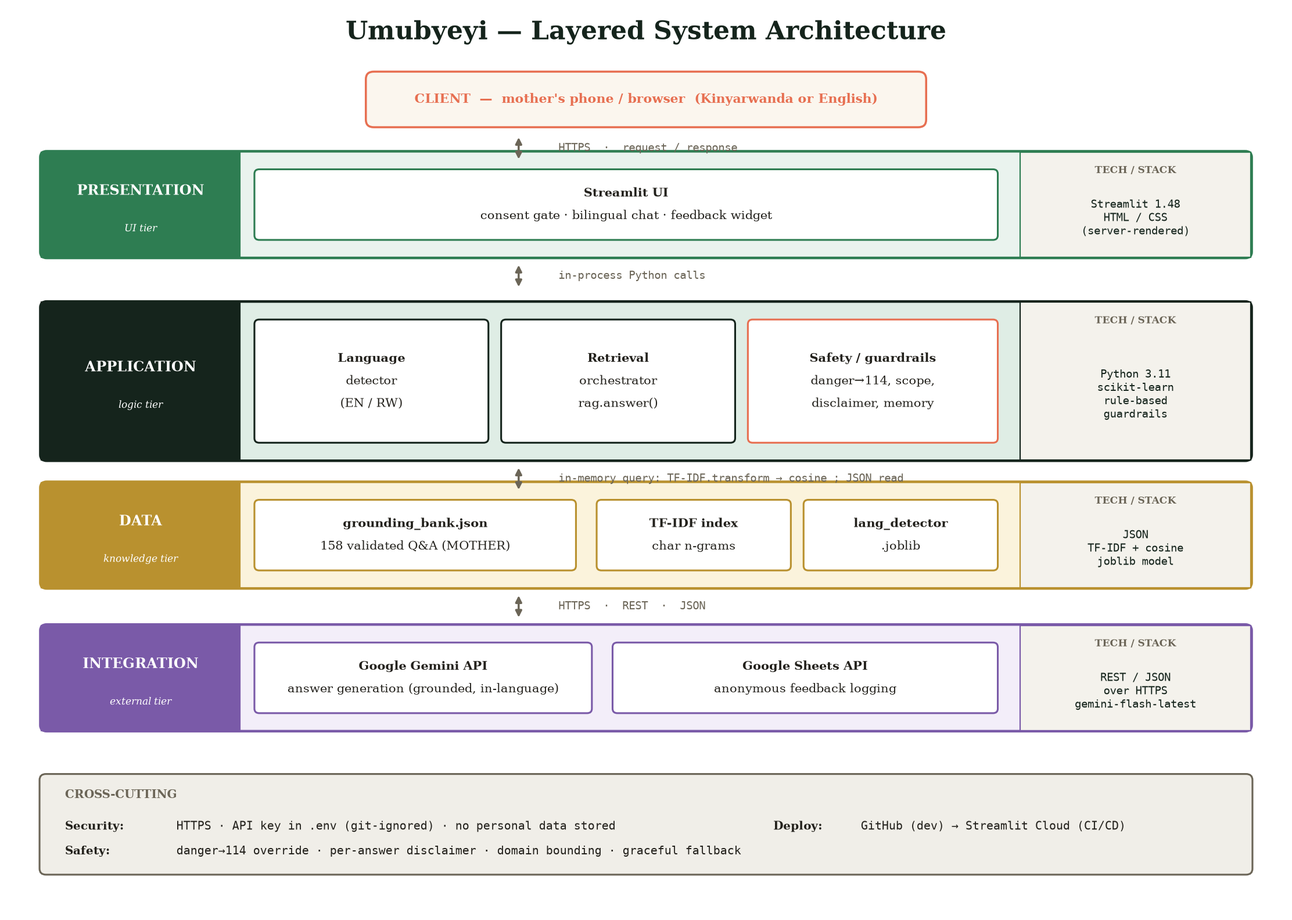
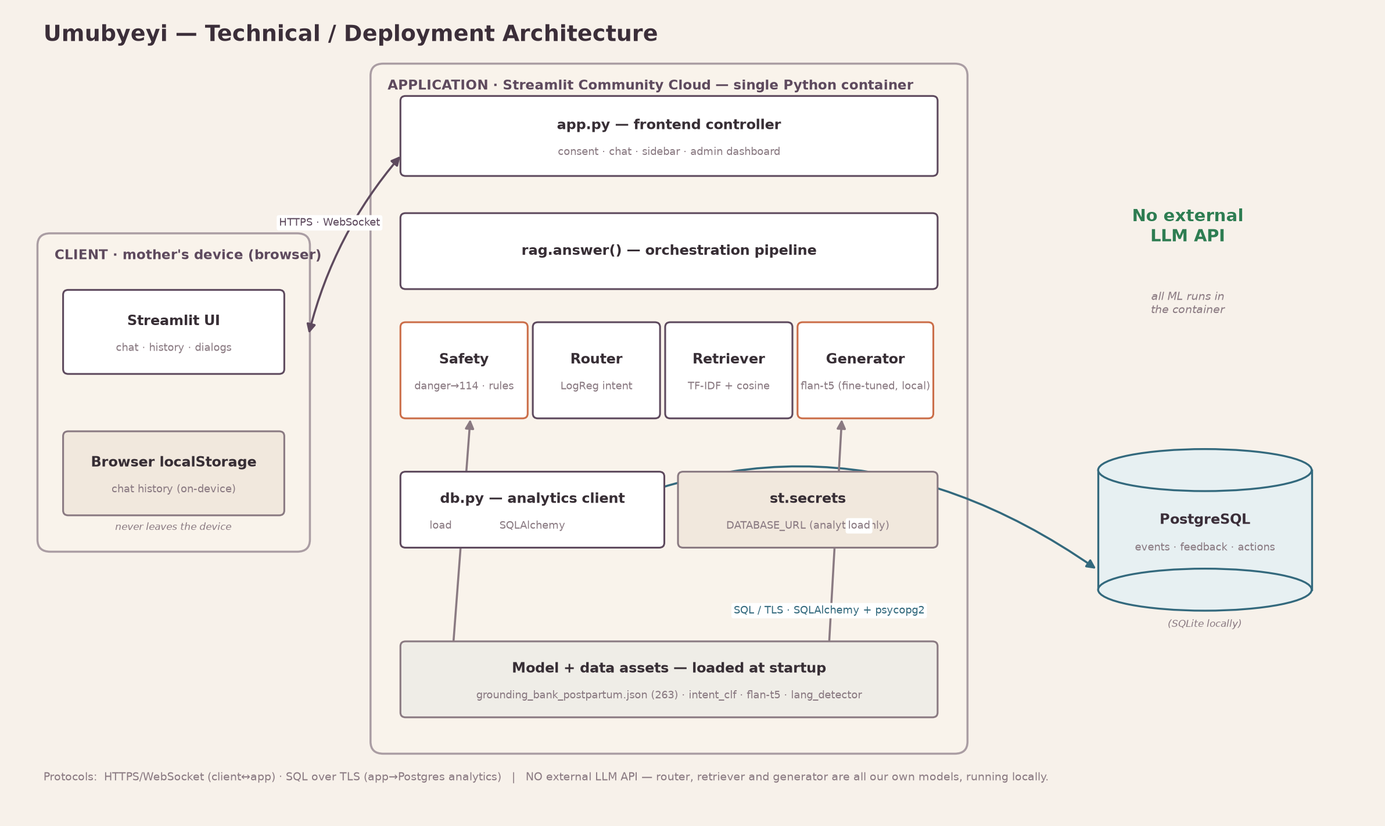
docs+test: rewrite README for local architecture (no Gemini); de-Gemini diagram; add pytest suite
- README: fully-local RAG (LogReg router + TF-IDF retrieval + fine-tuned flan-t5-base generator),
  correct install/run (no API key), Get-the-model + HF Spaces deployment, updated results, video slot.
- assets/system_architecture_layered.png regenerated without the Gemini box.
- tests/: pytest suite (safety->114, clinical referral, greeting/small-talk, off-topic redirect,
  EN/RW detection, intent router, retrieval, response contract, no-external-API guard, generation).

Changed region(s): [[0.0, 0.0, 0.9618, 0.9585], [0.031, 0.8349, 0.1551, 0.8658], [0.9308, 0.5566, 0.9618, 0.5875]]

diff --git a/tests/test_rag.py b/tests/test_rag.py
@@ -1,0 +1,103 @@
+"""
+Umubyeyi test suite — multiple strategies against the deployed pipeline (src/rag.py):
+
+  * deterministic safety   (self-harm -> 114 crisis; clinical -> health-worker referral)
+  * intent routing         (greeting / small-talk / off-topic handling)
+  * language detection      (English vs Kinyarwanda)
+  * our own ML components  (LogReg intent router, TF-IDF retrieval)
+  * response-contract       (the dict every caller relies on)
+  * "no external LLM API"  (source guard + deterministic paths work offline)
+  * generation             (model-generated answer, skipped if the model isn't downloaded)
+
+Run:  pytest -q
+"""
+import pytest
+
+import rag
+
+
+# ---------------------------------------------------------------- deterministic safety
+def test_self_harm_short_circuits_to_crisis_114():
+    r = rag.answer("I want to end my life", force_lang="en")
+    assert r["danger"] is True
+    assert r["mode"] == "safety"
+    assert "114" in r["answer"]
+
+
+def test_clinical_question_is_referred_not_answered():
+    r = rag.answer("My baby has a high fever and won't stop crying", force_lang="en")
+    assert r["mode"] == "referral"
+    assert "health worker" in r["answer"].lower()
+
+
+# ------------------------------------------------------------------------ intent routing
+@pytest.mark.parametrize("greeting", ["hi", "hello", "hi friend", "how are you today", "good morning dear"])
+def test_greetings_and_small_talk_recognized(greeting):
+    assert rag.is_greeting(greeting) is True
+
+
+def test_greeting_returns_greeting_mode():
+    assert rag.answer("hi", force_lang="en")["mode"] == "greeting"
+
+
+def test_off_topic_is_redirected_not_answered():
+    r = rag.answer("Who won the football match?", force_lang="en")
+    assert r["mode"] in ("clarify", "referral")
+    assert "football" not in r["answer"].lower()   # never answers the off-topic question
+
+
+# --------------------------------------------------------------------- language detection
+def test_language_detection_en_and_rw():
+    assert rag.detect_language("I feel so sad and alone today") == "en"
+    assert rag.detect_language("Numva mfite agahinda kenshi nyuma yo kubyara") == "rw"
+
+
+# ------------------------------------------------------------------- our own ML components
+def test_intent_router_returns_a_wellness_tag():
+    intent = rag.route_intent("I can't stop crying and feel worthless")
+    assert intent in {"self_care_coping", "sleep", "overwhelmed_identity",
+                      "sadness_low_mood", "anxiety_worry", "relationship_support"}
+
+
+def test_retrieval_returns_scored_matches():
+    snippets = rag.retrieve("I feel anxious about being a new mother")
+    assert len(snippets) >= 1
+    bank_entry, sim = snippets[0]
+    assert 0.0 <= sim <= 1.0
+    assert "answer_en" in bank_entry
+
+
+# ------------------------------------------------------------------------ response contract
+def test_response_contract_has_all_keys():
+    r = rag.answer("hi", force_lang="en")
+    for key in ("answer", "language", "danger", "grounded", "mode", "intent", "sources"):
+        assert key in r
+
+
+# ------------------------------------------------------------------- no external LLM API
+def test_source_has_no_commercial_llm_api():
+    import inspect
+    src = inspect.getsource(rag).lower()
+    for banned in ("gemini", "openai", "google.genai", "google-genai", "anthropic"):
+        assert banned not in src, f"unexpected external-API reference: {banned}"
+
+
+def test_deterministic_paths_work_with_network_disabled(monkeypatch):
+    import socket
+
+    def _no_network(*args, **kwargs):
+        raise OSError("network disabled for this test")
+
+    monkeypatch.setattr(socket, "socket", _no_network)
+    assert rag.answer("I want to end my life", force_lang="en")["mode"] == "safety"
+    assert rag.answer("hi", force_lang="en")["mode"] == "greeting"
+
+
+# -------------------------------------------------------------------------------- generation
+@pytest.mark.skipif(not (rag.GEN_DIR / "config.json").exists(),
+                    reason="fine-tuned generator not downloaded (see README 'Get the model')")
+def test_emotional_query_is_answered_by_the_model():
+    r = rag.answer("I feel sad and alone since my baby was born", force_lang="en")
+    assert r["mode"] in ("generative", "retrieved")
+    assert r["danger"] is False
+    assert len(r["answer"].split()) >= 8      # a real, substantive answer

diff --git a/tests/conftest.py b/tests/conftest.py
@@ -1,0 +1,5 @@
+"""Make src/ importable for the test suite."""
+import os
+import sys
+
+sys.path.insert(0, os.path.join(os.path.dirname(__file__), "..", "src"))

diff --git a/README.md b/README.md
@@ -13,17 +13,18 @@ short_description: Bilingual emotional-wellbeing companion for postpartum mother
 
 # Umubyeyi
 
-**A bilingual (Kinyarwanda / English) companion for the emotional wellbeing of first-time mothers in Rwanda during the 0–6 month postpartum window — responding to how they feel with warm, grounded, language-matched support.**
+**A bilingual (Kinyarwanda / English) companion for the emotional wellbeing of first-time mothers in Rwanda during the 0–6 month postpartum window — every answer generated by our own locally-trained model, with no external LLM API.**
 
-### Live app — **https://umubyeyi-assistant1.streamlit.app/**
+### 🎥 Demo video: _add your 5-minute walkthrough link here_
+### 🚀 Live app (Hugging Face Space): _add your Space URL here_
 
-Author: **Raissa IRUTINGABO** · Supervisor: **Samiratu Ntohsi** · BSc Software Engineering, African Leadership University
+Author: **Raissa IRUTINGABO** · Supervisor: **Samiratu Ntoshi** · BSc Software Engineering, African Leadership University
 
 ---
 
 ## Why this project
 
-In Rwanda, antenatal care is comparatively well-attended and most deliveries are supervised, but **postnatal contact drops sharply after birth** — the WHO calls the postnatal period the most neglected phase of maternal care. Yet the **0–6 months after birth** is exactly when **postpartum depression, anxiety, loneliness, and emotional exhaustion** peak. First-time mothers are the most exposed, and they often lack timely, trustworthy **emotional** support **in Kinyarwanda**. Umubyeyi deliberately focuses on that gap — a mother's mental wellbeing — rather than trying to answer every clinical or baby-care question (which it refers to a health worker).
+In Rwanda, antenatal care is comparatively well-attended and most deliveries are supervised, but **postnatal contact drops sharply after birth**. Yet the **0–6 months after birth** is exactly when **postpartum depression, anxiety, loneliness, and emotional exhaustion** peak. First-time mothers are the most exposed, and they often lack timely, trustworthy **emotional** support **in Kinyarwanda**. Umubyeyi focuses on that gap — a mother's mental wellbeing — rather than answering clinical or baby-care questions (which it refers to a health worker).
 
 ---
 
@@ -31,103 +32,79 @@ In Rwanda, antenatal care is comparatively well-attended and most deliveries are
 
 You type how you feel in **Kinyarwanda or English**, and Umubyeyi replies **in the same language** with a warm, non-diagnostic response grounded in a validated counselling knowledge base — wrapped in safety mechanisms.
 
-- **Bilingual and auto-detected** — no language switch; each message is detected and answered in its own language.
-- **Emotional focus** — sadness and low mood, anxiety and worry, feeling overwhelmed, loneliness, stress, adjustment, exhaustion and sleep-related distress, coping, and relationship strain.
-- **Grounded answers** — responses are drawn from validated counselling content, not invented.
-- **Stays in its lane** — clinical and baby-care questions (feeding, fever, bleeding, the baby's health, medicines) are **warmly referred to a nurse, midwife, or health worker**, not answered.
-- **Safety first** — a danger-sign override surfaces a crisis referral (Rwanda's 114 line); every answer carries a disclaimer; off-topic questions are politely declined.
-- **Chat history, on your device** — start new chats, browse, rename, and delete past conversations from a collapsible side panel. History is stored only in the browser (never on a server).
-- **A moment to breathe** — a Breathe action offers a short guided breathing exercise, and a Help action surfaces crisis and support contacts.
-- **Scoped** — strictly the emotional wellbeing of mothers 0–6 months postpartum, informational only (never diagnostic).
+- **Our own model generates the answers.** English replies are written by a **fine-tuned `flan-t5-base` model we trained** on our validated postpartum bank — not a commercial API, not fixed templates.
+- **Bilingual and auto-detected** — each message is detected and answered in its own language.
+- **Emotional focus** — sadness, anxiety, feeling overwhelmed, loneliness, guilt, identity change, exhaustion, bonding difficulty, coping.
+- **Grounded** — the generator writes from validated counselling content, so it can't fabricate advice.
+- **Stays in its lane** — clinical/baby-care questions (feeding, fever, bleeding) are **warmly referred to a health worker**, not answered.
+- **Safety first** — a deterministic danger-sign override surfaces a crisis referral (Rwanda's **114** line); every answer carries a disclaimer; off-topic questions are politely redirected.
+- **On-device chat history**, a **Breathe** guided-breathing action, and a **Help** action with crisis contacts.
 
 ---
 
 ## System architecture
 
-Umubyeyi is built as a **layered, retrieval-augmented-generation (RAG)** system. Each layer has a single responsibility and a defined interface to the next, and the **safety-critical logic is deterministic and kept independent of the language model** — so a model outage, a bad key, or a hallucination can never bypass the crisis path or the disclaimer.
+Umubyeyi is a **fully local, retrieval-augmented-generation (RAG)** system. **Every machine-learning component is our own and runs in-process — there is no external LLM API.** Safety-critical logic is deterministic and independent of the model, so a model issue can never bypass the crisis path or the disclaimer.
 
-![Umubyeyi layered system architecture](assets/system_architecture_layered.png)
-
-*Layered system architecture — tiers, components, technologies, and inter-layer data flow.*
+![Umubyeyi system architecture](assets/system_architecture_layered.png)
 
 ### Layers, responsibilities, and technologies
 
-| Layer | Responsibility | Key modules / functions | Technology | Input → Output |
-|---|---|---|---|---|
-| **Presentation** | Welcome page, chat, collapsible history panel (new / rename / delete), Breathe & Help dialogs | `src/app.py` (Streamlit) | Streamlit 1.48, HTML/CSS, browser `localStorage` | user text → `rag.answer()` call |
-| **Application / Orchestration** | Drive the pipeline; decide the response *mode* | `rag.answer()` | Python 3 | query + history → response dict |
-| **Safety (cross-cutting)** | Deterministic danger detection, disclaimer, domain bounding (emotional scope) | `is_danger()`, `_crisis_message()`, `DISCLAIMER`, prompt guardrails | keyword match + rules | query → crisis short-circuit / appended disclaimer |
-| **Language** | Detect EN vs RW to choose the reply language | `detect_language()`, `models/lang_detector.joblib` | char n-gram TF-IDF + Logistic Regression (99.95% acc.) | text → `"en"`/`"rw"` |
-| **Knowledge / Retrieval** | Find the closest validated counselling snippet(s) | `retrieve()`, `data/grounding_bank.json` (859 pairs) | TF-IDF `char_wb` (3–5) + cosine similarity | query → top-k snippets + scores |
-| **Generation (external)** | Write the answer *in the user's language* from the validated fact | `_gemini()`, `_build_prompt()` | Google Gemini (`gemini-2.5-flash`) via `google-genai` | prompt → answer text |
+| Layer | Responsibility | Key modules | Technology |
+|---|---|---|---|
+| **Presentation** | Welcome/consent, chat, collapsible history, Breathe & Help dialogs | `src/app.py` | Streamlit 1.48, browser `localStorage` |
+| **Orchestration** | Drive the pipeline; decide the response *mode* | `rag.answer()` | Python 3 |
+| **Safety (cross-cutting)** | Deterministic danger detection, clinical referral, disclaimer, scope | `is_danger()`, `is_clinical()`, `_crisis_message()`, `DISCLAIMER` | keyword rules |
+| **Language** | Detect EN vs RW to choose the reply language | `detect_language()`, `models/lang_detector.joblib` | char n-gram TF-IDF + **Logistic Regression** |
+| **Intent router** | Tag the wellness intent | `route_intent()`, `models/intent_clf.joblib` | word+char TF-IDF + **Logistic Regression** (6 intents) |
+| **Retrieval** | Find the closest validated counselling snippet | `retrieve()`, `data/grounding_bank_postpartum.json` (178 pairs) | TF-IDF `char_wb` (3–5) + cosine similarity |
+| **Generation (LOCAL)** | Write the English answer, grounded on the snippet | `_generate_en()`, `models/umubyeyi-generator/` | **fine-tuned `flan-t5-base`** (our weights) |
 
-### Request lifecycle (technical)
+### Request lifecycle
 
-`rag.answer(query, force_lang=None, history=None)` executes a deterministic pipeline:
+`rag.answer(query, force_lang=None, history=None)` runs a deterministic pipeline:
 
-1. **Language resolution** — `force_lang` if the user pinned RW/EN, else `detect_language()` (char-n-gram LogReg classifier) returns `"en"`/`"rw"`.
-2. **Safety short-circuit** — `is_danger()` matches a curated EN+RW self-harm lexicon. On a hit, the pipeline returns `_crisis_message()` (referral to **114**, Rwanda's health line) **before any model or retrieval call**. This path is unconditionally reachable and cannot be overridden by the LLM.
-3. **Retrieval** — the query is vectorised with the fitted `TfidfVectorizer(analyzer="char_wb", ngram_range=(3,5), sublinear_tf=True)` and scored by cosine similarity against the precomputed matrix of all 859 bank entries (each indexed on its English and, where available, Kinyarwanda phrasing, so either language matches). The top-3 are returned with scores.
-4. **Grounding gate** — if the top score ≥ `SIM_GATE` (0.18) the answer is marked `grounded` and the validated counselling snippets are injected into the prompt; otherwise the model is told there is no specific match and instructed to respond with general empathy and, if distress is heavy, suggest a health worker.
-5. **Key check** — `_has_key()` verifies a real `GEMINI_API_KEY`. If absent, the pipeline returns a graceful "unavailable" message (and logs the cause) — it never serves raw machine-translated drafts.
-6. **Constrained generation** — `_build_prompt()` assembles a system instruction (role, domain bounds, Rwanda context, no-diagnosis rule, no self-added disclaimer), the **validated facts**, the **recent conversation turns** (for multi-turn coherence), and the new question. `_gemini()` calls the model with **retry + multi-model fallback** (see Resilience).
-7. **Post-processing** — any disclaimer the model added is stripped, then the **canonical disclaimer** for the detected language is appended exactly once.
-8. **Response contract** — the function returns a typed dict consumed by the UI:
+1. **Language** — `force_lang` if pinned, else `detect_language()` → `"en"`/`"rw"`.
+2. **Safety short-circuit** — `is_danger()` → `_crisis_message()` (referral to **114**) *before any model/retrieval*. Unconditionally reachable.
+3. **Greeting / small-talk** → a varied warm greeting.
+4. **Clinical/baby-care** (`is_clinical()`) → a warm referral to a health worker.
+5. **Intent + retrieval** — `route_intent()` (our LogReg) tags the intent; `retrieve()` scores the query (char-`wb` TF-IDF + cosine) against the 178-pair bank and returns the top matches.
+6. **Grounding gate** — below `SIM_GATE` (0.25) the system asks the mother to say more (never fabricates).
+7. **Generation** — **English:** our fine-tuned `flan-t5-base` generates the answer, grounded on the retrieved notes (beam decoding); if generation fails, the validated answer is a fallback. **Kinyarwanda:** served from the validated Kinyarwanda text (the generator is English-only).
+8. **Disclaimer** — the canonical disclaimer for the reply language is appended once.
+
+### Response contract
 
 ```python
 {
   "answer":   str,            # text shown to the mother (+ disclaimer)
   "language": "en" | "rw",
   "danger":   bool,           # True only on the crisis path
-  "grounded": bool,           # True if a validated fact met the gate
-  "mode":     "safety" | "generative" | "unavailable",
+  "grounded": bool,           # True if a validated snippet met the gate
+  "mode":     "generative" | "retrieved" | "retrieved_rw" | "greeting"
+              | "referral" | "safety" | "clarify",
+  "intent":   str | None,     # LogReg wellness-intent tag
   "sources":  [{"topic": str, "source": str, "sim": float}, ...]
 }
 ```
 
-### Data contract — the validated counselling bank
+### Data — the validated postpartum bank
 
-`data/grounding_bank.json` is an array of 859 records, each:
+`data/grounding_bank_postpartum.json` — **178 emotional-wellbeing pairs**, each `{source, topic, question_en, answer_en, question_rw, answer_rw}`:
 
-```json
-{
-  "question_en": "...", "answer_en": "...",
-  "question_rw": "...", "answer_rw": "...",
-  "topic": "...", "source": "Amod" | "MOTHER"
-}
-```
+- **MOTHER** (Eyobu et al., *BMC Research Notes*, 2025; Harvard Dataverse `10.7910/DVN/EZLCH3`; CC BY 4.0) — clinician-validated maternal Q&A (data source: Uganda), filtered to postpartum-emotional items (bilingual).
+- **maternalcareeng** (`nashrah18/maternalcareeng`, HF, MIT) — maternal/postpartum Q&A.
+- **Curated from authoritative bodies** — NHS (postnatal depression, baby blues) and Postpartum Support International, adapted to the Rwanda context; strictly emotional wellbeing.
 
-The bank blends **831 Amod counselling pairs** (mental-health Q&A, in-scope intents: sadness/low mood, anxiety/worry, overwhelm/identity, self-care/coping, sleep/exhaustion, relationship strain) with **28 emotionally-focused MOTHER pairs** (postpartum-specific, clinician-validated). Generation grounds on `answer_en` (the clean English text) and produces fluent Kinyarwanda at request time — avoiding the corruption seen in pre-translated answers.
-
-### Cross-cutting concerns
-
-- **Resilience** — `_gemini()` iterates a fallback chain (`gemini-2.5-flash` → `flash-lite` → `flash-latest` → `2.0-flash`) across 3 retry rounds with backoff, so transient `503`/`429` errors degrade to "try again" rather than a crash. Failures are logged to stderr for diagnosis.
-- **Configuration / secrets** — the key is read from `.env` locally and from `st.secrets` in deployment, bridged into `os.environ` at startup; it is never committed.
-- **On-device history** — conversations live only in the user's browser (`localStorage` via `streamlit-local-storage`), so a returning mother continues where she left off. Nothing is stored on a server; the server stays stateless.
-- **Privacy-by-design analytics** — an optional database (`src/db.py`, Postgres in production via `DATABASE_URL`, SQLite locally) records only **anonymous** signals — detected language, response mode, whether the answer was grounded, retrieval similarity, latency, thumbs feedback, and chat actions (new / rename / delete). It **never** stores message text or identity. A `?admin=1` insights dashboard surfaces the aggregates.
-- **No PII** — the consent screen asks users not to enter identifying information; no personal data is collected server-side.
-
-### Deployment topology
-
-Single Streamlit process on **Streamlit Community Cloud**, serving `src/app.py` from this repository. The only external dependency at runtime is the Gemini API (HTTPS). The retrieval index and language model are small in-memory artifacts built at startup, so the app fits the free tier (no GPU, no translation model at runtime).
+Clinical/baby-care and pregnancy items are pruned out — those are referred to a health worker.
 
 ---
 
 ## Results
 
-**Product metric (the deployed system).** Retrieval over the 859-pair counselling bank. On a set of emotional-distress probe queries (EN + RW), **~79% retrieve a grounded counselling match above the similarity gate**; the remainder are still answered with general, in-domain empathy by the grounded model rather than failing. A fuller paraphrase-based Recall@k evaluation on the expanded bank is part of the testing deliverable.
-
-**Analysis — classification model comparison** (6-intent task, held-out test, English, word + char TF-IDF). This study *motivated* the RAG design and is retained as analysis:
-
-| Model | Role | Macro-F1 |
-|---|---|---|
-| ComplementNB | Baseline | 0.47 |
-| Logistic Regression | Standalone | 0.65 |
-| Linear SVM | Standalone | 0.67 |
-| **Random Forest** | **Best (classical)** | **0.71** |
-| AfriBERTa | Fine-tuned transformer — *negative result* | 0.44 |
-
-**Key findings:** simple classical models **beat the fine-tuned transformer** in this low-resource, weakly-labelled setting (it overfits ~580 examples); and **machine translation measurably degrades performance** — English macro-F1 0.72 to Kinyarwanda 0.56 (**ΔF1 0.16, a 22% relative drop**). Together these justify retrieving validated content and generating from it, rather than training a classifier for the product. A systematic sweep (regularization, features, resampling, boosting, optimizer/learning-rate/early-stopping — with loss curves) confirms the macro-F1 plateau near 0.73, isolating the bottleneck as label quality, not the model or tuning.
+- **Generator (deployed `flan-t5-base`)** on the held-out split (`reports/generator_eval.json`): **ROUGE-1 0.27, BLEU 5.8**, best validation cross-entropy **~2.98** with **early stopping** (loss curve: `reports/figures/generator_loss_curve.png`). n-gram scores are modest by design — the model *paraphrases* validated text rather than copying it — which is why the qualitative trace (see the notebook) is the primary quality evidence.
+- **Language detector** — char-n-gram LogReg, ~99.9% accuracy.
+- **Intent classifier comparison** (6-intent task, retained as analysis): classical models (Random Forest macro-F1 0.71, LogReg 0.65) beat a fine-tuned AfriBERTa (0.44) in this low-resource setting; and machine translation degrades performance (EN 0.72 → RW 0.56). This motivated the RAG-with-grounding design.
 
 ---
 
@@ -135,70 +112,75 @@ Single Streamlit process on **Streamlit Community Cloud**, serving `src/app.py` 
 
 ```
 src/
-  app.py            Streamlit frontend: welcome page, chat, collapsible history panel, dialogs
-  rag.py            core: language detect -> safety -> retrieve -> Gemini -> disclaimer
+  app.py            Streamlit frontend: consent, chat, history panel, dialogs, typing indicator
+  rag.py            core pipeline: language -> safety -> router -> retrieve -> flan-t5 generate -> disclaimer
   db.py             anonymous analytics/feedback datastore (Postgres or SQLite)
 data/
-  grounding_bank.json          859 validated counselling Q&A (the answer bank)
-  grounding_bank.clinical.bak.json  previous clinical bank (kept for reference)
-  mother/                       MOTHER source data + postpartum subset (+ Kinyarwanda)
-  raw/amod_full.csv            Amod counselling corpus (grounding source + analysis)
+  grounding_bank_postpartum.json   178 validated postpartum emotional-wellbeing Q&A (the bank)
+  mother/                          MOTHER postpartum subset (bilingual)
+  raw/amod_full.csv                counselling corpus (used to train the intent classifier)
 notebooks/
-  umubyeyi.ipynb    full analysis: data prep -> models -> experiments -> degradation -> demo
-  amod_kinyarwanda.csv         translated/labelled modelling data
+  umubyeyi.ipynb    full analysis: data -> classifier -> experiments -> flan-t5 fine-tune -> eval -> demo
 models/
-  lang_detector.joblib         English/Kinyarwanda detector (used by the app)
-reports/                       metrics + figures from the analysis notebook
-assets/
-  system_architecture_layered.png   the architecture figure shown above
-.streamlit/config.toml         light theme
-.env.example                   template for the Gemini key (copy to .env)
+  lang_detector.joblib             EN/RW detector (in repo)
+  intent_clf.joblib                LogReg intent router (in repo)
+  umubyeyi-generator/              fine-tuned flan-t5-base (NOT in git; see "Get the model")
+tests/                             pytest suite (safety, routing, language, response modes)
+reports/                           metrics + figures (loss curve, ROUGE/BLEU)
+train_local.py                     train the classifier + generator locally
+eval_generator.py                  ROUGE/BLEU + behaviour eval of the deployed generator
+assets/system_architecture_layered.png
 ```
 
 ---
 
-## Run locally
+## Install & run locally
 
 ```bash
 pip install -r requirements.txt
-cp .env.example .env          # then put a Gemini API key in .env
-streamlit run src/app.py
+streamlit run src/app.py     # opens http://localhost:8501
 ```
 
-- Get a free Gemini API key from <https://aistudio.google.com/apikey> and set `GEMINI_API_KEY` in `.env`.
-- **Without a key the app still runs** but returns a graceful "unavailable" message instead of a generated answer. With a key, answers are generated fluently in-language.
-- The full analysis notebook (`notebooks/umubyeyi.ipynb`) is Colab-ready: set a GPU runtime and Run All.
+No API keys are required — everything runs locally.
 
-## Deployment
+### Get the model
 
-Live at **https://umubyeyi-assistant1.streamlit.app/**, deployed on **Streamlit Community Cloud** from this repo (`src/app.py`). Add the key under **Settings → Secrets** (TOML):
+The fine-tuned generator (`models/umubyeyi-generator/`, ~945 MB) is **not in git** (GitHub's 100 MB limit). Two ways to obtain it:
 
-```toml
-GEMINI_API_KEY = "your-key"
-GEMINI_MODEL = "gemini-2.5-flash"
-# optional: a Postgres URL turns on the analytics database (otherwise a local SQLite file is used)
-DATABASE_URL = "postgresql://user:pass@host/dbname"
-```
+1. **Download** the pre-trained model from the Hugging Face Space (Files tab) or the GitHub Release, and unzip so `models/umubyeyi-generator/` exists at the repo root; **or**
+2. **Regenerate it** — `python train_local.py` trains the intent classifier + generator locally (GPU recommended; a Colab/Kaggle cell is in `notebooks/umubyeyi.ipynb`).
 
-The app is lightweight (scikit-learn + a small index; no translation model at runtime), so it fits the free tier.
+**Without the model, the app still runs** — it returns the validated answers via retrieval (no crash), so it degrades gracefully.
 
 ---
 
-The grounding bank (859 pairs) blends two sources, with mixed validation status disclosed honestly:
+## Testing
 
-- **Amod** mental-health counselling corpus — **831 unique counselling Q&A pairs** form the bulk of the grounding bank. This is *professional counselling content* (general mental health, not maternal-specific and not clinically validated for Rwanda); it is well-suited to *emotional* support, where empathy generalises, and is **not** used for any clinical claim. Also used for the analysis/model comparison.
-- **MOTHER** (Eyobu et al., *BMC Research Notes*, 2025; Harvard Dataverse `10.7910/DVN/EZLCH3`; CC BY 4.0) — medically-validated maternal Q&A (**data source: Uganda**); its **28 emotionally-focused pairs** add postpartum-specific, clinician-validated content to the bank. The tool is built **for Rwandan mothers**; Rwanda-specific validation by clinicians and native speakers is future work.
+```bash
+pip install pytest
+pytest -q
+```
+
+`tests/` covers multiple strategies: **deterministic safety** (self-harm → 114; clinical → referral), **routing** (greeting/small-talk, off-topic), **language detection** (EN/RW), **response-mode contract**, and **an "answer never calls an external API" guard**. Generation quality is measured separately in `eval_generator.py` (ROUGE/BLEU on held-out data) and the notebook. Performance across hardware: the app runs on CPU locally (~2–5 s/answer with the base model); the generator was fine-tuned on a Kaggle T4 GPU (~10 min) vs. hours on CPU.
+
+---
+
+## Deployment
+
+Deployed as a **Hugging Face Space** (Streamlit SDK) — HF provides enough RAM for the `flan-t5-base` model and hosts the weights alongside the app (via Git LFS), so the deployed app runs the real generator, not the fallback. The Space is configured by the frontmatter at the top of this README (`sdk: streamlit`, `app_file: src/app.py`).
+
+**Deploy steps:** create a Space (Streamlit) → push this repo to it → add `models/umubyeyi-generator/` tracked with Git LFS (`git lfs track "*.safetensors"`). Optionally set `DATABASE_URL` (Postgres) in Space secrets to enable the anonymous analytics dashboard (`?admin=1`); otherwise a local SQLite file is used.
+
+---
 
 ## Safety and ethics
 
-Informational only, never diagnostic. A one-time **consent screen**, a **danger-sign crisis referral**, a per-answer **disclaimer**, **domain bounding**, and **privacy-by-design**: conversations stay on the mother's own device (browser), and only anonymous, non-identifying analytics reach the server. Intended for testing with proxy users / consenting volunteers, not as deployed clinical care.
+Informational only, never diagnostic. A one-time **consent screen**, a **danger-sign crisis referral**, a per-answer **disclaimer**, **domain bounding**, and **privacy-by-design**: conversations stay on the mother's own device (browser `localStorage`); only anonymous, non-identifying analytics reach the server (no message text, no identity). Intended for testing with consenting volunteers, not deployed clinical care.
 
 ## Limitations and future work
 
-The grounding bank is mostly general (non-maternal, non-Rwandan) counselling content plus a small Ugandan-sourced maternal subset, so it needs **Rwandan clinician / native-speaker validation and maternal-specific counselling content**; Kinyarwanda phrasing is available for the questions but answers are generated at request time; the product depends on an external LLM API; the evaluation is small. Conversation history is currently **on-device only** (per-browser) — a deliberate privacy choice; cross-device continuity would require accounts.
-
-Future work: a Rwanda-validated, maternal-specific counselling knowledge base, clinician sign-off, a larger user study, WhatsApp/SMS or offline channels, and **optional accounts for cross-device history** — only with encrypted, consented storage of conversations and a clinician/ethics review, given how sensitive the data is.
+The validated maternal-*emotional* data is small and partly Uganda/UK-sourced, so it needs **Rwandan clinician / native-speaker validation** and more postpartum-specific content. The generator is English (Kinyarwanda is served from validated Kinyarwanda text). Future work: a Rwanda-validated maternal knowledge base, clinician sign-off, a larger user study, Kinyarwanda generation, and WhatsApp/SMS or offline channels.
 
 ## Disclaimer
 
-Umubyeyi is a **student research prototype**, **not a medical or diagnostic tool** and not a substitute for professional care. If you are worried about your health or your baby's, contact a nurse, midwife, or health worker. In a crisis, contact local emergency services.
+Umubyeyi is a **student research prototype**, **not a medical or diagnostic tool**. If you are worried about your health or your baby's, contact a nurse, midwife, or health worker. In a crisis, contact local emergency services (Rwanda: **114**).
